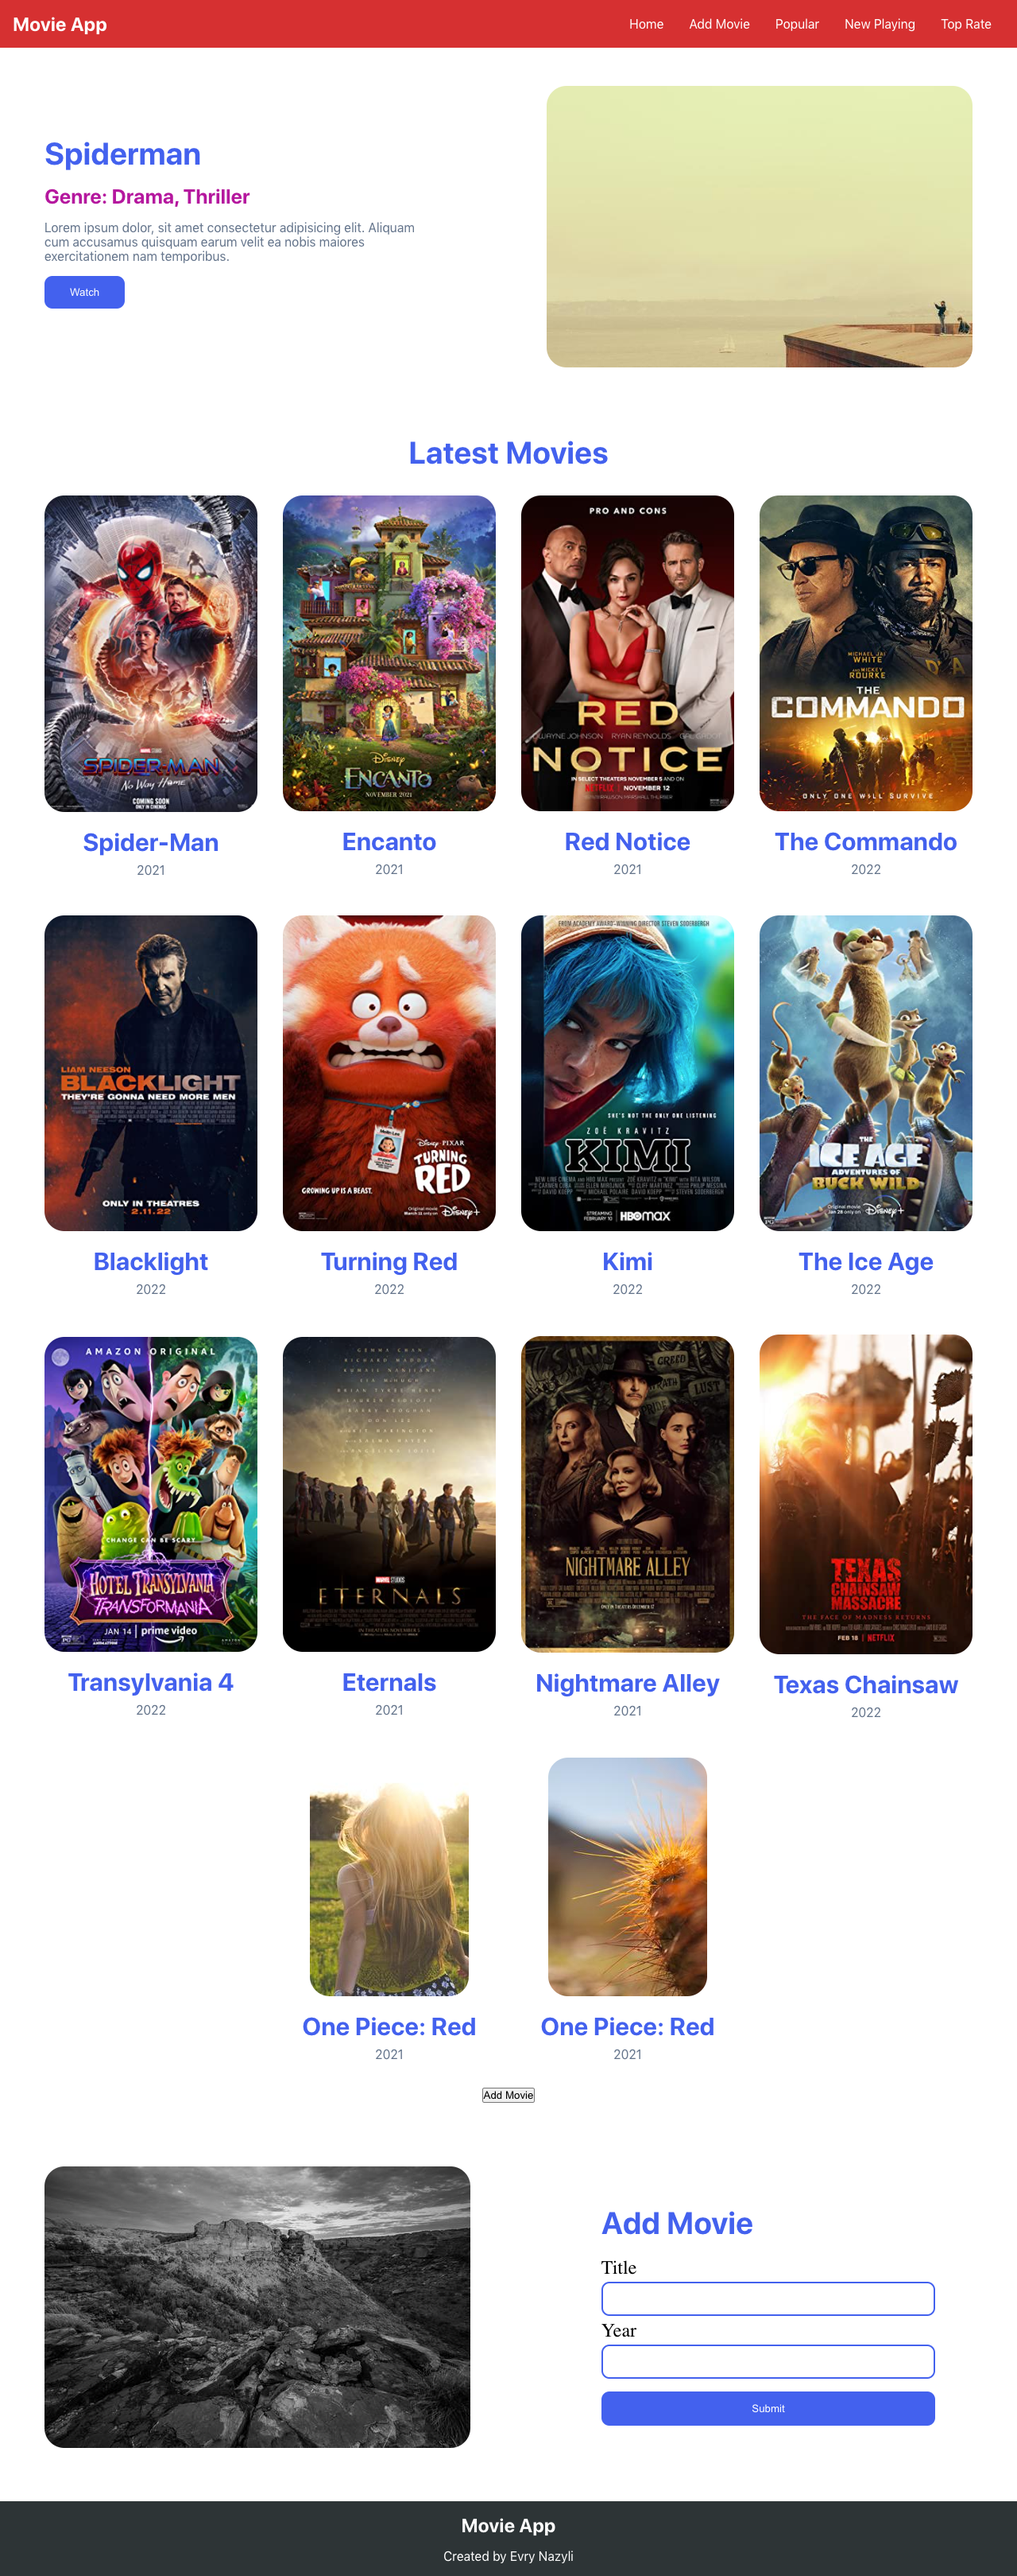
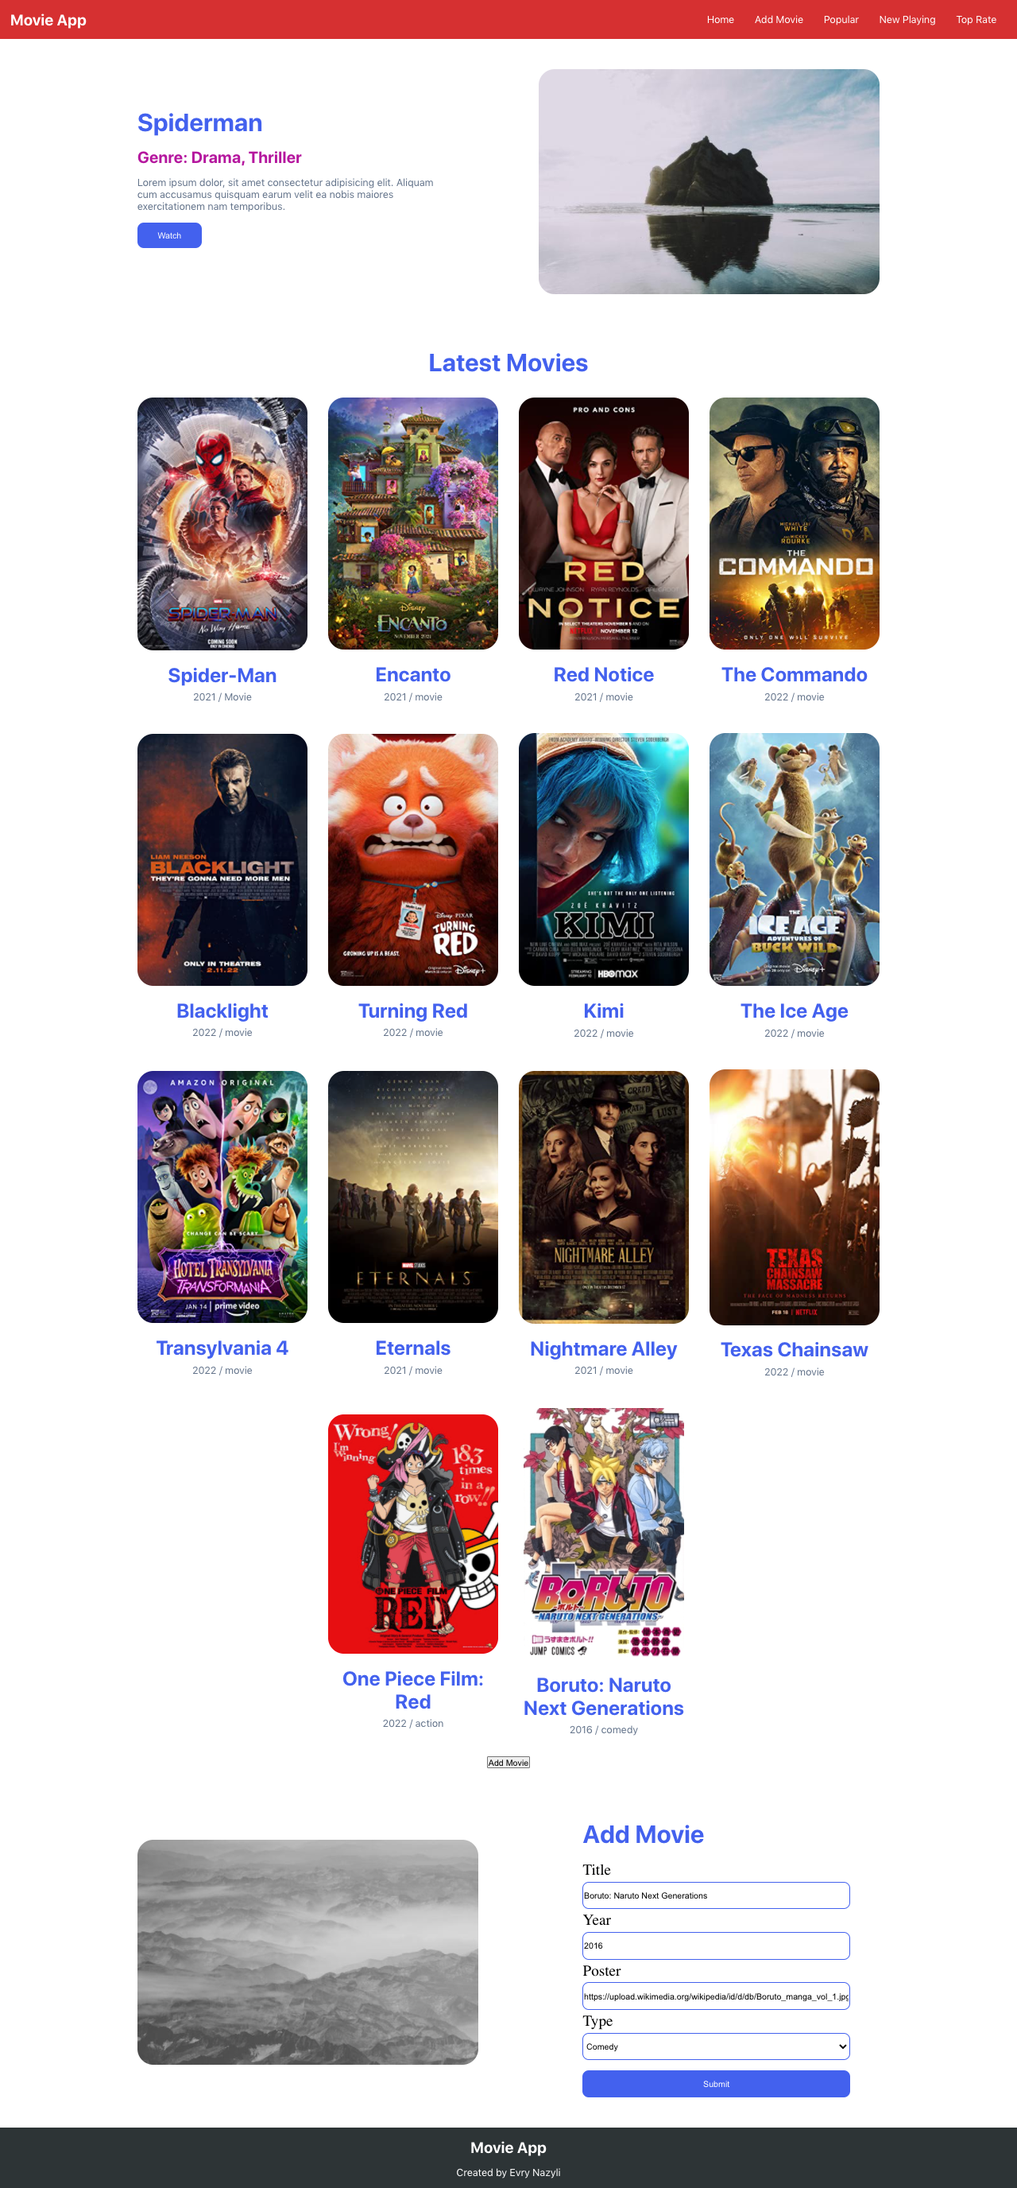
Evry Nazyli - Pertemuan 7

diff --git a/src/components/AddMovieForm/AddMovieForm.js b/src/components/AddMovieForm/AddMovieForm.js
@@ -1,5 +1,66 @@
+import { nanoid } from "nanoid";
+import { useState } from "react";
+import Alert from "../Alert/Alert";
 import styles from "./AddMovieForm.module.css"
-function AddMovieForm() {
+function AddMovieForm(props) {
+    const { movies, setMovies } = props;
+
+    // membuat state untuk title dan date
+
+    const [title, setTitle] = useState("");
+    const [date, setDate] = useState("");
+    const [poster, setPoster] = useState("");
+    const [type, setType] = useState("");
+
+    // membuat state validasi
+    const [isTitleError, setIsTitleError] = useState(false);
+    const [isDateError, setIsDateError] = useState(false);
+    const [isPosterError, setIsPosterError] = useState(false);
+    const [isTypeError, setIsTypeError] = useState(false);
+
+    function handleTitle(e) {
+        setTitle(e.target.value);
+    }
+    function handleDate(e) {
+        setDate(e.target.value);
+    }
+    function handlePoster(e) {
+        setPoster(e.target.value);
+    }
+
+    function handleType(e) {
+        setType(e.target.value);
+    }
+    function handleSubmit(e) {
+        // mencegah perilaku default: refersh
+        e.preventDefault();
+        if (title === "") {
+            setIsTitleError(true)
+        } else if (date === "") {
+            setIsDateError(true)
+        } else if (poster === "") {
+            setIsPosterError(true)
+        } else if (type === "") {
+            setIsTypeError(true)
+        }
+        else {
+            const movie = {
+                id: nanoid(),
+                title: title,
+                year: date,
+                type: type,
+                poster: poster,
+            }
+
+            setMovies([...movies, movie])
+            setIsTitleError(false)
+            setIsDateError(false)
+            setIsPosterError(false)
+            setIsTypeError(false)
+        }
+
+    }
+
     return (
         <div className={styles.container}>
             <section className={styles.addmovie}>
@@ -13,12 +74,43 @@ function AddMovieForm() {
                 <div className={styles.addmovie__right}>
                     <div className={styles.addmovie_form}>
                         <h2 className={styles.addmovie__title}>Add Movie</h2>
-                        <form action="/handlelogin">
+                        <form onSubmit={handleSubmit}>
                             <label for="title" className={styles.addmovie__label}>Title</label><br />
-                            <input type="text" name="title" className={styles.addmovie__input} /><br />
+                            <input
+                                onChange={handleTitle}
+                                type="text"
+                                id="title"
+                                className={styles.addmovie__input}
+                                value={title} /><br />
+                            {isTitleError && <Alert>Title Wajib Diisi</Alert>}
                             <label for="year" className={styles.addmovie__label}>Year</label><br />
-                            <input type="text" name="year" className={styles.addmovie__input} /><br />
+                            <input
+                                onChange={handleDate}
+                                type="number "
+                                id="date"
+                                className={styles.addmovie__input}
+                                value={date} /><br />
+                            {isDateError && <Alert>Date Wajib Diisi</Alert>}
+                            <label for="poster" className={styles.addmovie__label}>Poster</label><br />
+                            <input
+                                onChange={handlePoster}
+                                type="text"
+                                id="poster"
+                                className={styles.addmovie__input}
+                                value={poster} /><br />
+                            {isPosterError && <Alert>Poster Wajib Diisi</Alert>}
+                            <label for="type" className={styles.addmovie__label}>Type</label><br />
+                            <select onChange={handleType} className={styles.addmovie__select}>
+                                <option></option>
+                                <option value="action">Action</option>
+                                <option value="drama">Drama</option>
+                                <option value="comedy">Comedy</option>
+                                <option value="romantic">Romantic</option>
+                            </select>
+                            {isTypeError && <Alert>Type Wajib Diisi</Alert>}
+
                             <input type="submit" value="Submit" className={styles.addmovie__submit} />
+
                         </form>
                     </div>
 

diff --git a/src/pages/Home.js b/src/pages/Home.js
@@ -1,16 +1,20 @@
+import { useState } from "react";
 import AddMovieForm from "../components/AddMovieForm/AddMovieForm";
 import Footer from "../components/Footer/Footer";
 import Hero from "../components/Hero/Hero";
 import Movies from "../components/Movies/Movies";
 import Navbar from "../components/Navbar/Navbar";
+import data from "../utils/constants/data";
 
 
 function Main() {
+    const [movies, setMovies] = useState(data);
+
     return (
         <main>
             <Hero />
-            <Movies />
-            <AddMovieForm />
+            <Movies movies={movies} setMovies={setMovies} />
+            <AddMovieForm movies={movies} setMovies={setMovies} />
         </main>
     );
 };

diff --git a/src/components/Movies/Movies.js b/src/components/Movies/Movies.js
@@ -1,11 +1,9 @@
 import Movie from "../Movie/Movie";
 import style from "./Movies.module.css";
-import data from "./../../utils/constants/data"
 import { nanoid } from "nanoid"
-import { useState } from "react";
 
-function Movies() {
-  const [movies, setMovies] = useState(data);
+function Movies(props) {
+  const {movies, setMovies} = props;
 
   function tambahFilm() {
     const movie = {
@@ -18,6 +16,7 @@ function Movies() {
     }
     // copy and merge array
     setMovies([...movies, movie])
+    // setMovies(movies.concat(movie))
   }
   return (
     <div className={style.container}>

diff --git a/src/components/Movie/Movie.js b/src/components/Movie/Movie.js
@@ -11,7 +11,7 @@ function Movie(props) {
                 alt={movie.title}
             />
             <h3 className={style.movie__title}>{movie.title} </h3>
-            <p className={style.movie__date}>{movie.year} </p>
+            <p className={style.movie__date}>{movie.year} / {movie.type} </p>
         </div>
     );
 };

diff --git a/src/utils/constants/data.js b/src/utils/constants/data.js
@@ -43,7 +43,7 @@ const data = [
       id: "tt8097030",
       title: "Turning Red",
       year: "2022",
-      yype: "movie",
+      type: "movie",
       poster:
         "https://m.media-amazon.com/images/M/MV5BNjY0MGEzZmQtZWMxNi00MWVhLWI4NWEtYjQ0MDkyYTJhMDU0XkEyXkFqcGdeQXVyODc0OTEyNDU@._V1_SX300.jpg",
     },

diff --git a/src/components/AddMovieForm/AddMovieForm.module.css b/src/components/AddMovieForm/AddMovieForm.module.css
@@ -44,6 +44,14 @@
   box-sizing: border-box;
   border-radius: 10px;
 }
+.addmovie__select {
+  width: 90%;
+  height: 43px;
+  background: #ffffff;
+  border: 2px solid #4361ee;
+  box-sizing: border-box;
+  border-radius: 10px;
+}
 .addmovie__submit {
   margin-top: 1rem;
   width: 90%;

diff --git a/src/components/Alert/Alert.js b/src/components/Alert/Alert.js
@@ -1,0 +1,8 @@
+function Alert(props){
+    return(
+        <div>
+            <span>{props.children}</span>
+        </div>
+    );
+}
+export default Alert;

diff --git a/README.md b/README.md
@@ -1,5 +1,5 @@
 # Frontend Programming
-# Task Pertemuan 6
+# Task Pertemuan 7
 
 STT Terpadu Nurul Fikri
 
